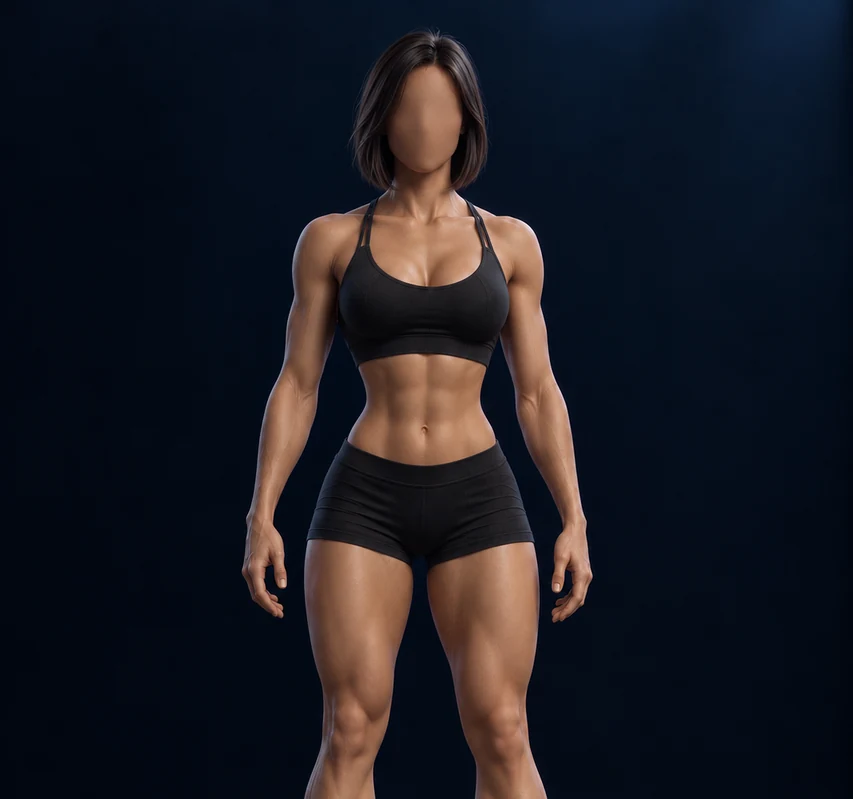
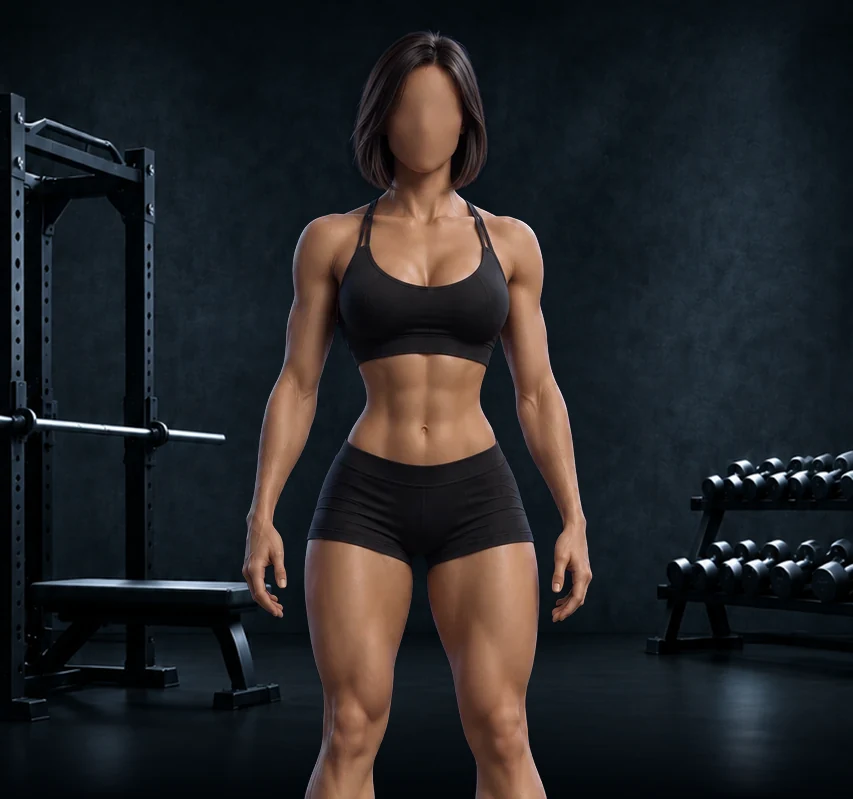
Gym background for character, multi-goal onboarding, workout screen fixes
- Character (male/female) cut out and placed on owner's dark gym background
- Onboarding goal step: multiple goals, first is main; neutral text colors, shared font, top fades from bg
- Workout day: drop weekday from eyebrow, exercise rows open ExerciseCard
- Exercise session: video 220px tall, one-line hint
- Docs: PROJECT.md, DECISIONS.md

Claude-Session: https://claude.ai/code/session_0129hU52bvYbZJKh8dwC4UxD

diff --git a/src/screens/Workout.tsx b/src/screens/Workout.tsx
@@ -11,6 +11,7 @@ import {
 } from '../components/Icons'
 import { MuscleIcon, type MuscleZone } from '../components/MuscleIcon'
 import { NumericWheelPicker } from '../components/NumericWheelPicker'
+import { ExerciseCard } from './Exercises'
 import { loadExercises, posterUrl, videoUrl, type Exercise } from '../data/exercises'
 import { itemFor, todayIndex, weekPlan, type PlanDay, type PlanItem, type WeekPlan } from '../data/plan'
 import { getWorkouts, saveWorkout, subscribeWorkouts, type SetLog } from '../data/workouts'
@@ -20,7 +21,6 @@ import { loadProfile, type Profile } from '../onboarding'
 // Базовые всегда первыми, изолирующие — добивка. Сохранение → saveWorkout() → «Прогресс» пересчитывается сам.
 
 const DAYS = ['Пн', 'Вт', 'Ср', 'Чт', 'Пт', 'Сб', 'Вс']
-const DAYS_FULL = ['Понедельник', 'Вторник', 'Среда', 'Четверг', 'Пятница', 'Суббота', 'Воскресенье']
 const short: Record<string, string> = {
   'Грудь и трицепс': 'Грудь',
   'Спина и бицепс': 'Спина',
@@ -94,6 +94,9 @@ function Day({ plan, selected, onSelect, onStart, onClose }: {
   }, [history, today])
   const next = plan.days.findIndex((d, i) => d && i > today)
   const tip = day ? coachTip(day.items) : null
+  const [open, setOpen] = useState<Exercise | null>(null)
+
+  if (open) return <ExerciseCard exercise={open} onBack={() => setOpen(null)} />
 
   return (
     <main className="wo">
@@ -102,7 +105,7 @@ function Day({ plan, selected, onSelect, onStart, onClose }: {
           <ChevronLeftIcon />
         </button>
         <p className="wo-eyebrow">
-          {DAYS_FULL[selected].toUpperCase()} · НЕДЕЛЯ {plan.week} ИЗ 4{plan.deload ? ' · ЛЁГКАЯ' : ''}
+          НЕДЕЛЯ {plan.week} ИЗ 4{plan.deload ? ' · ЛЁГКАЯ' : ''}
         </p>
         <h1 className="wo-h1">{day ? day.title : 'День отдыха'}</h1>
         <p className="wo-meta">
@@ -140,19 +143,21 @@ function Day({ plan, selected, onSelect, onStart, onClose }: {
         {day && (
           <ul className="wo-list">
             {day.items.map((it) => (
-              <li key={it.exercise.id} className="card wo-row">
-                <Thumb e={it.exercise} />
-                <span className="wo-rt">
-                  <span className="wo-rn">{it.exercise.name}</span>
-                  <span className="wo-rx">
-                    {it.rx.sets} × {it.rx.min}–{it.rx.max}
-                    {it.exercise.kind === 'base' ? ' · базовое' : ''}
+              <li key={it.exercise.id}>
+                <button type="button" className="card wo-row tappable" onClick={() => setOpen(it.exercise)}>
+                  <Thumb e={it.exercise} />
+                  <span className="wo-rt">
+                    <span className="wo-rn">{it.exercise.name}</span>
+                    <span className="wo-rx">
+                      {it.rx.sets} × {it.rx.min}–{it.rx.max}
+                      {it.exercise.kind === 'base' ? ' · базовое' : ''}
+                    </span>
                   </span>
-                </span>
-                <span className="wo-pill">
-                  <b className={it.kg === null ? 'is-mute' : ''}>{it.kg !== null ? kg(it.kg) : it.bodyweight ? 'свой вес' : 'подбор'}</b>
-                  {it.change && it.change !== 'подбор' && <i>{it.change}</i>}
-                </span>
+                  <span className="wo-pill">
+                    <b className={it.kg === null ? 'is-mute' : ''}>{it.kg !== null ? kg(it.kg) : it.bodyweight ? 'свой вес' : 'подбор'}</b>
+                    {it.change && it.change !== 'подбор' && <i>{it.change}</i>}
+                  </span>
+                </button>
               </li>
             ))}
           </ul>
@@ -301,7 +306,7 @@ function Session({ day, profile, deload, onExit, onDone }: {
       </header>
 
       <div className="wo-body wo-body--s">
-        <div className="wo-studio">
+        <div className="wo-studio" style={{ aspectRatio: it.exercise.video?.ar ?? 1 }}>
           {it.exercise.video && (
             <video key={it.exercise.id} src={videoUrl(it.exercise)} poster={posterUrl(it.exercise)} autoPlay muted loop playsInline disablePictureInPicture />
           )}
@@ -310,7 +315,7 @@ function Session({ day, profile, deload, onExit, onDone }: {
           <div>
             <h1 className="wo-tl">{it.exercise.name}</h1>
             <p className="wo-meta">
-              {it.rx.sets} подхода × {it.rx.min}–{it.rx.max} повторений
+              {it.rx.sets} × {it.rx.min}–{it.rx.max} повторений
             </p>
           </div>
           <MuscleIcon zone={zoneOf(it.exercise)} className="wo-mus" />
@@ -320,16 +325,11 @@ function Session({ day, profile, deload, onExit, onDone }: {
           <span className="wo-disc"><TrendUpIcon /></span>
           {prev ? (
             <p>
-              Прошлый раз: <b>{prev}</b>
-              <br />
-              Сегодня: <b>{it.kg !== null ? kg(it.kg) : it.bodyweight ? 'свой вес' : 'подбор'}</b> {it.change && <em>{it.change}</em>}
+              Было <b>{prev}</b> · сегодня <b>{it.kg !== null ? kg(it.kg) : it.bodyweight ? 'свой вес' : 'подбор'}</b> {it.change && <em>{it.change}</em>}
             </p>
           ) : (
             <p>
-              <b>{it.bodyweight ? 'Свой вес.' : 'Подберите вес'}</b>{' '}
-              {it.bodyweight
-                ? `Сделайте ${it.rx.min}–${it.rx.max} повторений чисто, без рывков.`
-                : `на ${it.rx.min}–${it.rx.max} повторений: последние 1–2 — тяжело, но чисто.`}
+              {it.bodyweight ? <><b>Свой вес</b> — чисто, без рывков</> : <><b>Подберите вес</b> — последние 1–2 повтора тяжело</>}
             </p>
           )}
         </div>

diff --git a/src/screens/onboarding/Onboarding.tsx b/src/screens/onboarding/Onboarding.tsx
@@ -151,13 +151,16 @@ function Head({ title, lead }: { title: string; lead: string }) {
   )
 }
 
-function Option({ selected, onClick, icon, title, sub, className = '' }: { selected: boolean; onClick: () => void; icon: ReactNode; title: string; sub: string; className?: string }) {
+function Option({ selected, onClick, icon, title, sub, tag, className = '' }: { selected: boolean; onClick: () => void; icon: ReactNode; title: string; sub: string; tag?: string; className?: string }) {
   return (
     <button type="button" className={`ob-card ob-opt ${className}${selected ? ' sel' : ''}`} aria-pressed={selected} onClick={onClick}>
       {icon}
       <span className="ob-opt__text">
         <span className="ob-opt__title">{title}</span>
-        <span className="ob-opt__sub">{sub}</span>
+        <span className="ob-opt__sub">
+          {sub}
+          {tag && <span className="ob-opt__tag">{tag}</span>}
+        </span>
       </span>
       <span className="ob-radio" />
     </button>
@@ -229,11 +232,28 @@ function StepAbout({ p, set }: StepProps) {
 function StepGoal({ p, set }: StepProps) {
   return (
     <>
-      <Head title="Твоя цель" lead="Выберите главную — под неё строится вся программа." />
+      <Head title="Твоя цель" lead="Можно выбрать несколько — первая станет главной." />
       <div className="ob__body">
-        {goals.map((g) => (
-          <Option key={g.id} selected={p.goal === g.id} onClick={() => set('goal', g.id)} icon={<span className="ob-ibox">{g.icon}</span>} title={g.title} sub={g.sub} />
-        ))}
+        {goals.map((g) => {
+          const chosen = p.goals ?? (p.goal ? [p.goal] : [])
+          const on = chosen.includes(g.id)
+          const toggle = () => {
+            const next = on ? chosen.filter((x) => x !== g.id) : [...chosen, g.id]
+            set('goals', next)
+            set('goal', next[0] ?? null)
+          }
+          return (
+            <Option
+              key={g.id}
+              selected={on}
+              onClick={toggle}
+              icon={<span className="ob-ibox">{g.icon}</span>}
+              title={g.title}
+              sub={g.sub}
+              tag={on && chosen.length > 1 && chosen[0] === g.id ? 'главная' : undefined}
+            />
+          )
+        })}
       </div>
     </>
   )

diff --git a/src/styles/onboarding.css b/src/styles/onboarding.css
@@ -3,7 +3,7 @@
   --u: calc(min(100vw, 480px) / 390);
   --ob-line: rgba(120, 165, 210, 0.42);
   --ob-line-soft: rgba(120, 165, 210, 0.22);
-  --ob-muted: rgba(235, 241, 248, 0.62);
+  --ob-muted: var(--text-3);
   --ob-accent: #74bff2;
   --ob-icon: #9fd2fb;
   --ob-ease: cubic-bezier(0.23, 1, 0.32, 1);
@@ -14,8 +14,9 @@
   flex-direction: column;
   overflow: hidden;
   color: #fff;
-  font-family: -apple-system, BlinkMacSystemFont, 'SF Pro Text', 'SF Pro Display', system-ui, sans-serif;
+  font-family: var(--font);
   background:
+    linear-gradient(180deg, var(--bg) 0, transparent calc(var(--u) * 110)),
     radial-gradient(120% 60% at 50% 0%, rgba(30, 70, 120, 0.25), transparent 70%),
     linear-gradient(180deg, rgba(1, 7, 14, 0.15) 0%, rgba(1, 7, 14, 0.85) 45%, #01070e 70%),
     url('../assets/welcome-top.png') top center / 100% 100% no-repeat,
@@ -66,7 +67,7 @@
   min-width: calc(var(--u) * 46);
   text-align: right;
   font-size: calc(var(--u) * 12);
-  color: var(--ob-accent);
+  color: var(--text-2);
 }
 
 /* контент шага */
@@ -138,7 +139,7 @@
   text-align: center;
   font-size: calc(var(--u) * 12);
   line-height: calc(var(--u) * 16);
-  color: var(--ob-accent);
+  color: var(--text-2);
 }
 .ob__cta {
   width: 100%;
@@ -231,7 +232,7 @@
 .ob-opt__sub {
   font-size: calc(var(--u) * 12);
   line-height: calc(var(--u) * 16);
-  color: var(--ob-accent);
+  color: var(--text-2);
 }
 .ob-ibox {
   flex: none;
@@ -459,7 +460,7 @@
   align-items: center;
   gap: calc(var(--u) * 7);
   font-size: calc(var(--u) * 12);
-  color: #84b1db;
+  color: var(--text-2);
 }
 .ob-day__dot {
   width: calc(var(--u) * 34);
@@ -718,4 +719,17 @@
 
 .ob-notes textarea {
   font-size: max(16px, calc(var(--u) * 14));
+}
+
+/* метка «главная» у первой выбранной цели */
+.ob-opt__tag {
+  margin-left: calc(var(--u) * 8);
+  padding: calc(var(--u) * 1) calc(var(--u) * 7);
+  border: 1px solid rgba(140, 180, 225, 0.16);
+  border-radius: 999px;
+  background: linear-gradient(180deg, rgba(22, 34, 46, 0.92), rgba(8, 15, 23, 0.92));
+  font-size: calc(var(--u) * 10.5);
+  line-height: calc(var(--u) * 15);
+  color: var(--text-2);
+  vertical-align: middle;
 }

diff --git a/src/screens/Profile.tsx b/src/screens/Profile.tsx
@@ -149,7 +149,7 @@ function ProgramCard({ p, onLift }: { p: ProfileData; onLift: (l: Lift) => void 
         <h2 className="pf-card__title">Моя программа</h2>
         <span className="pf-card__meta">по ней тренер строит тренировки</span>
       </div>
-      <Row k="Цель" v={goals.find((g) => g.id === p.goal)?.title} />
+      <Row k="Цель" v={(p.goals?.length ? p.goals : p.goal ? [p.goal] : []).map((id) => goals.find((g) => g.id === id)?.title).filter(Boolean).join(', ') || undefined} />
       <Row k="Уровень" v={levels.find((l) => l.id === p.level)?.title} />
       <Row k="Где тренируюсь" v={[place, p.equipment.length ? p.equipment.join(', ') : ''].filter(Boolean).join(' · ')} />
       <Row k="График" v={p.perWeek ? `${p.perWeek} в неделю${days ? ` · ${days}` : ''}` : undefined} />

diff --git a/src/onboarding.ts b/src/onboarding.ts
@@ -14,7 +14,10 @@ export type Profile = {
   height: number | null
   weight: number | null
   targetWeight: number | null
+  /** Главная цель (первая выбранная) — по ней строится программа. */
   goal: Goal | null
+  /** Все выбранные цели по порядку выбора; первая = goal. Старые анкеты — без поля. */
+  goals?: Goal[]
   level: Level | null
   place: Place | null
   equipment: string[]
@@ -36,6 +39,7 @@ export const emptyProfile: Profile = {
   weight: null,
   targetWeight: null,
   goal: null,
+  goals: [],
   level: null,
   place: null,
   equipment: [],

diff --git a/src/screens/Exercises.tsx b/src/screens/Exercises.tsx
@@ -164,7 +164,7 @@ function Thumb({ e }: { e: Exercise }) {
 // Основная мышца и одна помогающая — человек сразу видит, что работает сильнее.
 const loadRole = ['Основная', 'Помогает']
 
-function ExerciseCard({ exercise: e, onBack }: { exercise: Exercise; onBack: () => void }) {
+export function ExerciseCard({ exercise: e, onBack }: { exercise: Exercise; onBack: () => void }) {
   const muscles = musclesOf(e)
   return (
     <main className="ex">

diff --git a/src/styles/workout.css b/src/styles/workout.css
@@ -186,6 +186,9 @@
   gap: 0.42rem;
 }
 .wo-row {
+  width: 100%;
+  text-align: left;
+  color: inherit;
   display: flex;
   align-items: center;
   gap: 0.75rem;
@@ -300,8 +303,8 @@
 }
 .wo-studio {
   margin: 0 auto;
-  width: 12.5rem;
-  aspect-ratio: 1;
+  height: 13.75rem; /* 220px при ширине 390 — видео видно, таблица подходов целиком на экране */
+  max-width: 100%;
   border-radius: var(--radius-card);
   overflow: hidden;
   background: #fff;

diff --git a/docs/DECISIONS.md b/docs/DECISIONS.md
@@ -2,6 +2,14 @@
 
 Новые записи — сверху. Формат: дата — решение — почему.
 
+## 2026-11-06
+- **Фон персонажа — тёмный зал** (картинка владельца): мужской и женский персонаж вырезаны из старого синего фона без изменений и поставлены на зал (стойка, скамья, гантели); низ плавно уходит в `--bg`. Меняются только `hero-male.webp` / `hero-female.webp` — Главная и «Прогресс».
+- **Анкета, шаг «Цель» — можно выбрать несколько целей**; первая выбранная — главная (метка «главная»), по ней строится программа (`goal`), все — в `goals`. В Профиле «Цель» — все выбранные.
+- **Анкета — текст нейтральный**: подписи вариантов, «N из 6», дни недели, подсказка — `--text-2`/`--text-3` вместо голубого; шрифт — `--font`. Верх анкеты начинается с `--bg`, чтобы не было резкого стыка с шапкой Telegram.
+- **«Тренировка дня»**: в заголовке только «НЕДЕЛЯ N ИЗ 4» (день уже виден в полоске недели); карточки упражнений нажимаются → карточка упражнения (видео, мышцы, техника) — тот же `ExerciseCard` из «Упражнений».
+- **Экран упражнения: видео 220 px по высоте** (было 200×200 квадрат) — выбор владельца из 160 / 220 / ~304; таблица подходов целиком на экране. Подсказка под видео — одна строка. У конкурентов (Hevy, Strong) на экране подходов видео маленькое или по нажатию.
+- **Имя «Onepercent» в шапке Telegram** — это имя бота в BotFather (`/setname` → «One%»), кодом не меняется — делает владелец.
+
 ## 2026-11-04
 - **Предпочтения владельца записаны в дизайн-систему** (`SKILL.md`, раздел «Предпочтения владельца»): читаемый текст без голубого на синем, небольшие цифры, подписи по обе стороны, прирост вместо индекса, базовые первыми, 2 мышцы, подтверждение опасных действий. Новый чат обязан их соблюдать.
 - **Роль упражнения (`kind`)**: базовое / изолирующее / растяжка / кардио — проставлено у всех 979 и сверено вручную. Базовое — несколько суставов, тяжёлое, ставится первым (жимы, тяги, приседы, выпады, подтягивания, отжимания, становая, ягодичный мост со штангой). Изолирующее — одна мышца (сгибания, разгибания, махи, сведения, пресс, планки). Прыжки и бёрпи — кардио. В карточке упражнения роль показана первой в строке под названием.
